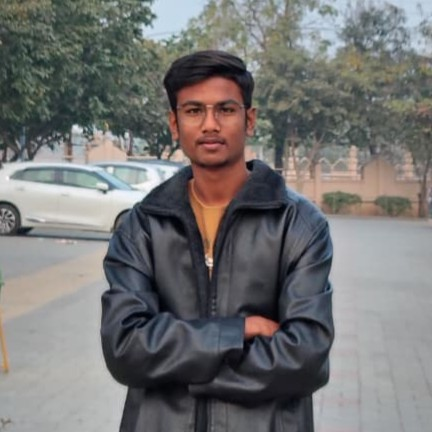
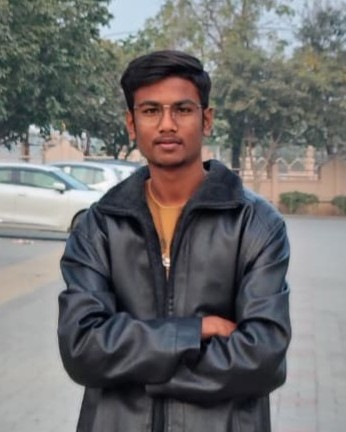
profile photo alignment and deleted some extra content to make it simple and professional

diff --git a/index.html b/index.html
@@ -71,8 +71,8 @@
                 <path d="M20 21v-2a4 4 0 0 0-4-4H8a4 4 0 0 0-4 4v2"/>
                 <circle cx="12" cy="7" r="4"/>
               </svg>
-              <p>Add Your Photo</p>
-              <small>Replace the &lt;img&gt; tag in HTML</small>
+              <!-- <p>Add Your Photo</p>
+              <small>Replace the &lt;img&gt; tag in HTML</small> -->
             </div>
             <img src="navinya_pic.jpeg" alt="Navinya" /> 
           </div>
@@ -80,17 +80,17 @@
         </div>
       </div>
     </div>
-    <div class="scroll-indicator">
+    <!-- <div class="scroll-indicator">
       <div class="scroll-dot"></div>
       <span>Scroll</span>
-    </div>
+    </div> -->
   </section>
 
   <!-- About -->
   <section id="about" class="about">
     <div class="container">
       <div class="section-header reveal">
-        <span class="section-tag">Who I Am</span>
+        <!-- <span class="section-tag">Who I Am</span> -->
         <h2 class="section-title">About Me</h2>
       </div>
       <div class="about-grid">
@@ -174,7 +174,7 @@
   <section id="contact" class="contact">
     <div class="container">
       <div class="section-header reveal">
-        <span class="section-tag">Say Hello</span>
+        <!-- <span class="section-tag">Say Hello</span> -->
         <h2 class="section-title">Contact Me</h2>
       </div>
       <div class="contact-layout">
